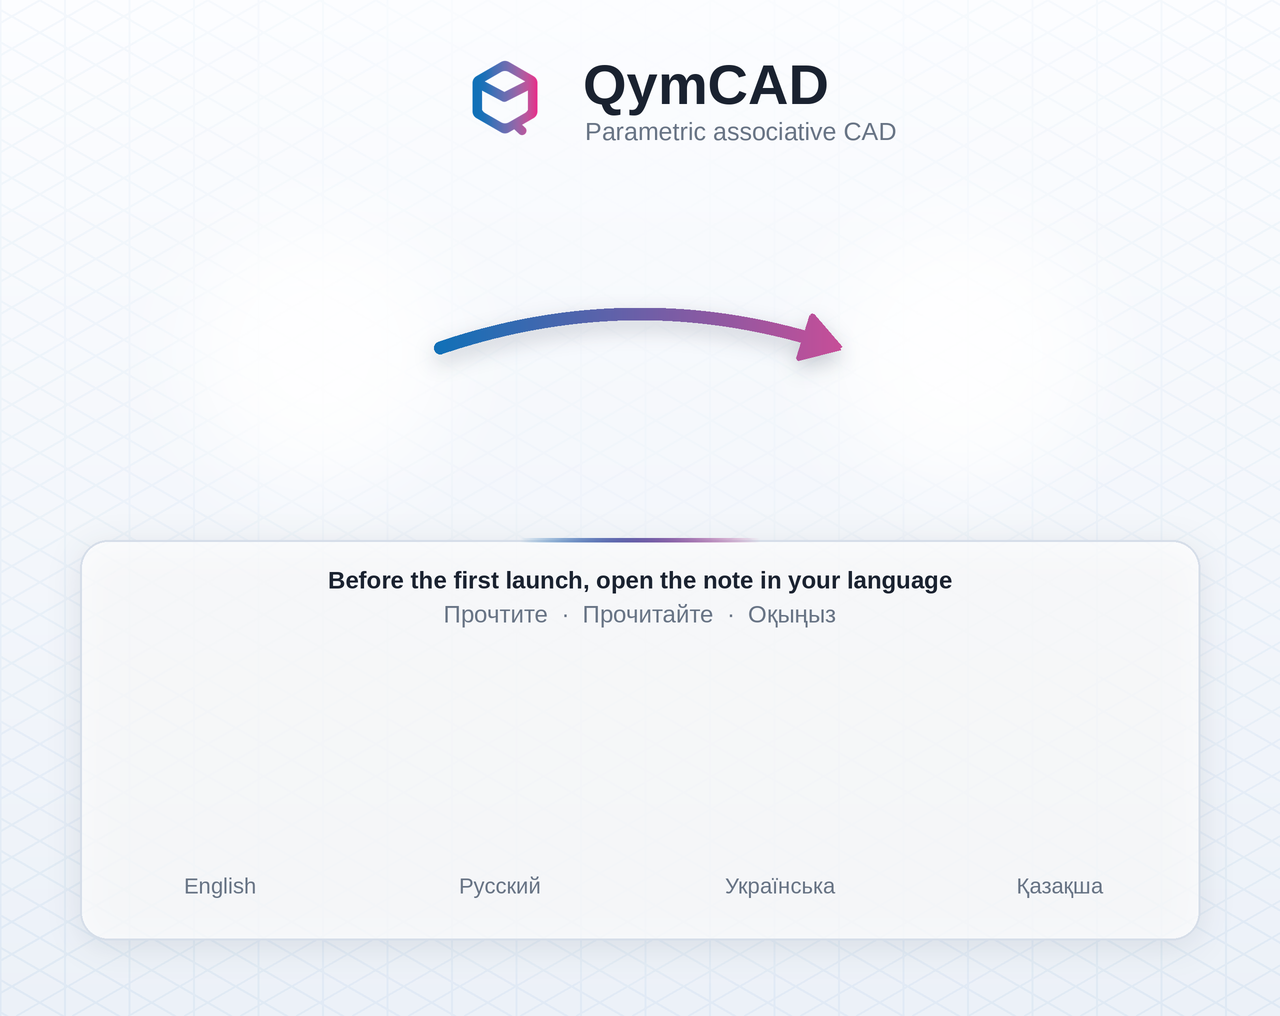
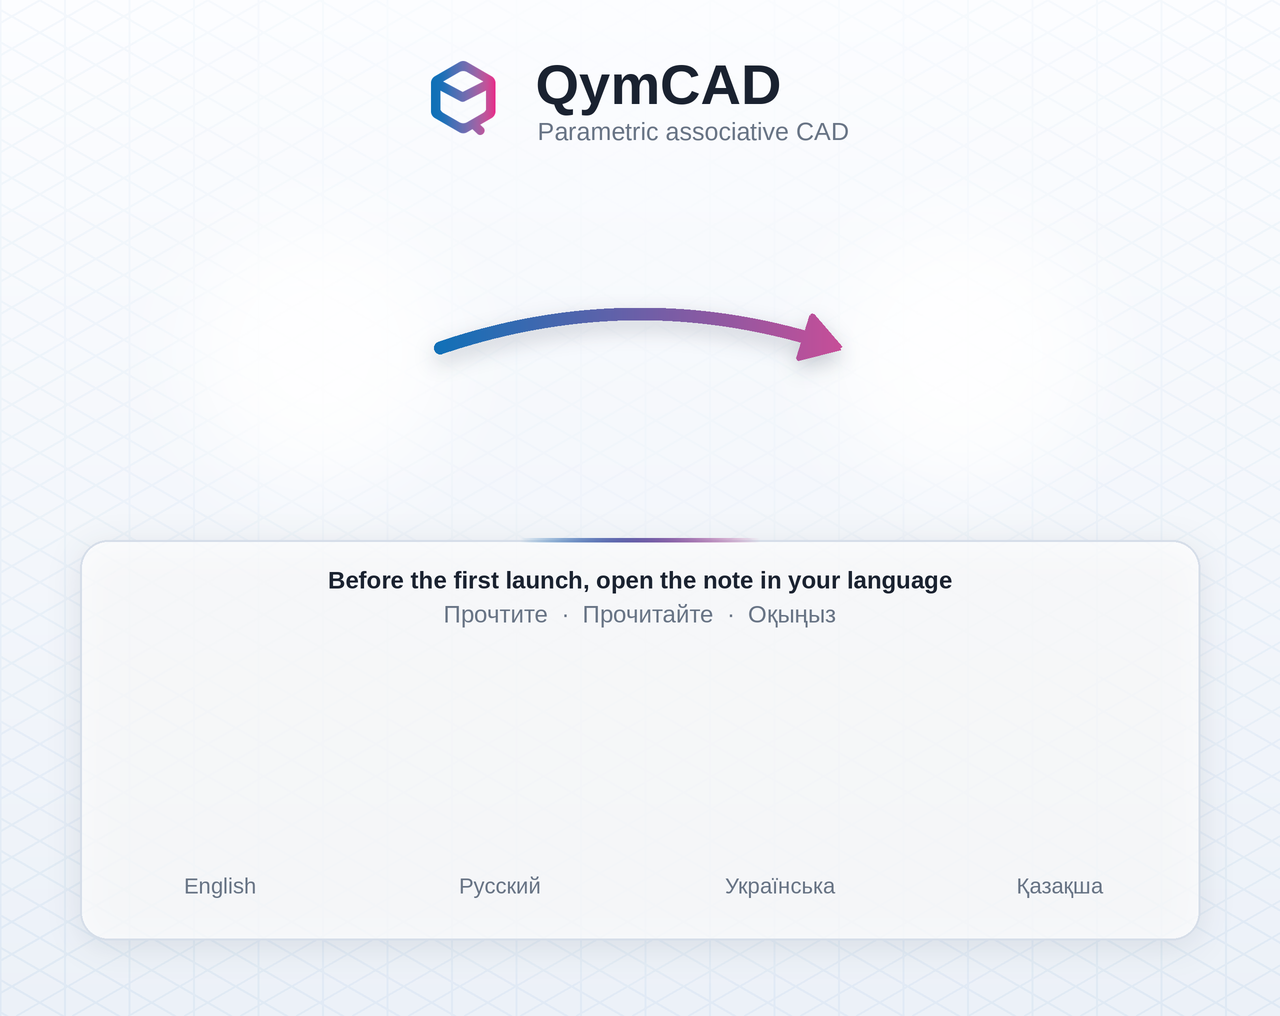
fix(packaging): the disk image's header stands on the window's centre
Reported behaviour, on a screenshot of the opened image: the logo is not centred. Measured on the picture:
the header group stood 21.8 points right of the window's centre. Two causes. The group was centred on the
width of the name, while the line under it is wider. And logo.png keeps about a fifth of its width as a
transparent margin on each side, which counted into the group's width while showing nothing - 5 points of
the shift.

The group is centred on its widest line, and the logo is cropped to its drawn pixels before it is placed,
at the same 37-point height its ink had before.

Check: `the_header_is_centred_in_the_window` decodes background@2x.png and centres the columns holding
anything darker than the ground above the icons' row, within a point - red on the previous picture
("21.8 points off"), red at 5.0 with only the widest-line fix, green with both. A real image, opened and
captured: the header's ink runs 430 to 848 of 1280 pixels.

Changed region(s): [[0.3125, 0.061, 0.6875, 0.1526]]

diff --git a/packaging/macos/dmg/draw_background.py b/packaging/macos/dmg/draw_background.py
@@ -33,6 +33,7 @@ BLUE = (18, 112, 183)
 MAGENTA = (198, 78, 152)
 INK = (26, 34, 48)
 MUTED = (104, 116, 133)
+TAGLINE = "Parametric associative CAD"
 
 
 def layout():
@@ -97,20 +98,30 @@ def soft_shadow(size, shape, blur, opacity, offset):
 
 def header(img, width, bold, regular):
     """The logo beside the name, and one line under them, centred as a group above the icons."""
+    # CROPPED TO WHAT IS DRAWN. logo.png keeps about a fifth of its width as a transparent margin on each side;
+    # placed whole, that margin counted into the group's width while showing nothing, and the visible group
+    # stood 5 points right of the centre, measured on the picture. The row is `side` tall; the logo's ink is
+    # 37 points of it, the size it had inside the uncropped 54-point square.
     logo = Image.open(os.path.join(ROOT, "assets", "logo.png")).convert("RGBA")
+    logo = logo.crop(logo.getbbox())
     side = px(54)
-    logo = logo.resize((side, side), Image.LANCZOS)
+    ink_h = px(37)
+    ink_w = round(logo.width * ink_h / logo.height)
+    logo = logo.resize((ink_w, ink_h), Image.LANCZOS)
     name = ImageFont.truetype(bold, px(28))
     line = ImageFont.truetype(regular, px(12.5))
     d = ImageDraw.Draw(img)
-    text_w = d.textlength("QymCAD", font=name)
-    gap = px(12)
-    x = (px(width) - (side + gap + text_w)) / 2
+    # The group is centred on its widest line: centring it on the name alone put it 22 points right of the
+    # window's centre, the tagline being the wider of the two - measured on the screenshot of the window.
+    text_w = max(d.textlength("QymCAD", font=name), px(1) + d.textlength(TAGLINE, font=line))
+    gap = px(20)
+    x = (px(width) - (ink_w + gap + text_w)) / 2
     top = px(22)
-    img.alpha_composite(logo, (round(x), top))
-    # The name sits on a baseline just above the logo's middle, the line under it hangs from just below it.
-    d.text((x + side + gap, top + side / 2 + px(3)), "QymCAD", font=name, fill=INK, anchor="ls")
-    d.text((x + side + gap + px(1), top + side / 2 + px(12)), "Parametric associative CAD", font=line, fill=MUTED, anchor="lt")
+    img.alpha_composite(logo, (round(x), top + (side - ink_h) // 2))
+    # The name sits on a baseline just above the row's middle, the line under it hangs from just below it.
+    text_x = x + ink_w + gap
+    d.text((text_x, top + side / 2 + px(3)), "QymCAD", font=name, fill=INK, anchor="ls")
+    d.text((text_x + px(1), top + side / 2 + px(12)), TAGLINE, font=line, fill=MUTED, anchor="lt")
 
 
 def wells(img, centres):

diff --git a/crates/qymcad/src/packaging_macos.rs b/crates/qymcad/src/packaging_macos.rs
@@ -530,3 +530,25 @@ fn the_window_layout_fits_its_background() {
         }
     }
 }
+
+/// THE HEADER STANDS ON THE WINDOW'S CENTRE. The logo, the name and the line under it are one group above the
+/// icons; centred on the name alone, the group stood 22 points right of the centre, the line under the name
+/// being wider. Measured here on the picture itself: the columns holding anything darker than the pale ground,
+/// above the icons' row, must be centred within a point.
+#[test]
+fn the_header_is_centred_in_the_window() {
+    let art = Path::new(env!("CARGO_MANIFEST_DIR")).join("../../packaging/macos/dmg");
+    let probe = "scope = {'defines': {'stage': '', 'art': ''}}\n\
+                 exec(compile(open(__import__('sys').argv[1], encoding='utf-8').read(), 'settings.py', 'exec'), scope, scope)\n\
+                 print(scope['APP'][1] - scope['icon_size'] / 2)\n";
+    let out = Command::new("python3").arg("-c").arg(probe).arg(art.join("settings.py")).output().expect("python3 runs");
+    assert!(out.status.success(), "settings.py does not execute:\n{}", said(&out));
+    let icons_top: f64 = String::from_utf8_lossy(&out.stdout).trim().parse().expect("the top of the icons' row");
+
+    let picture = image::open(art.join("background@2x.png")).expect("background@2x.png decodes").to_rgb8();
+    let band = (icons_top * 2.0) as u32 - 20;
+    let inked: Vec<u32> = (0..picture.width()).filter(|&x| (0..band).any(|y| picture.get_pixel(x, y).0.iter().any(|&c| c < 200))).collect();
+    let (first, last) = (inked.first().copied().expect("the header has ink"), inked.last().copied().expect("the header has ink"));
+    let off = (f64::from(first + last) / 2.0 - f64::from(picture.width()) / 2.0) / 2.0;
+    assert!(off.abs() <= 1.0, "the header is {off:.1} points off the window's centre: ink from {first} to {last} of {} pixels", picture.width());
+}
